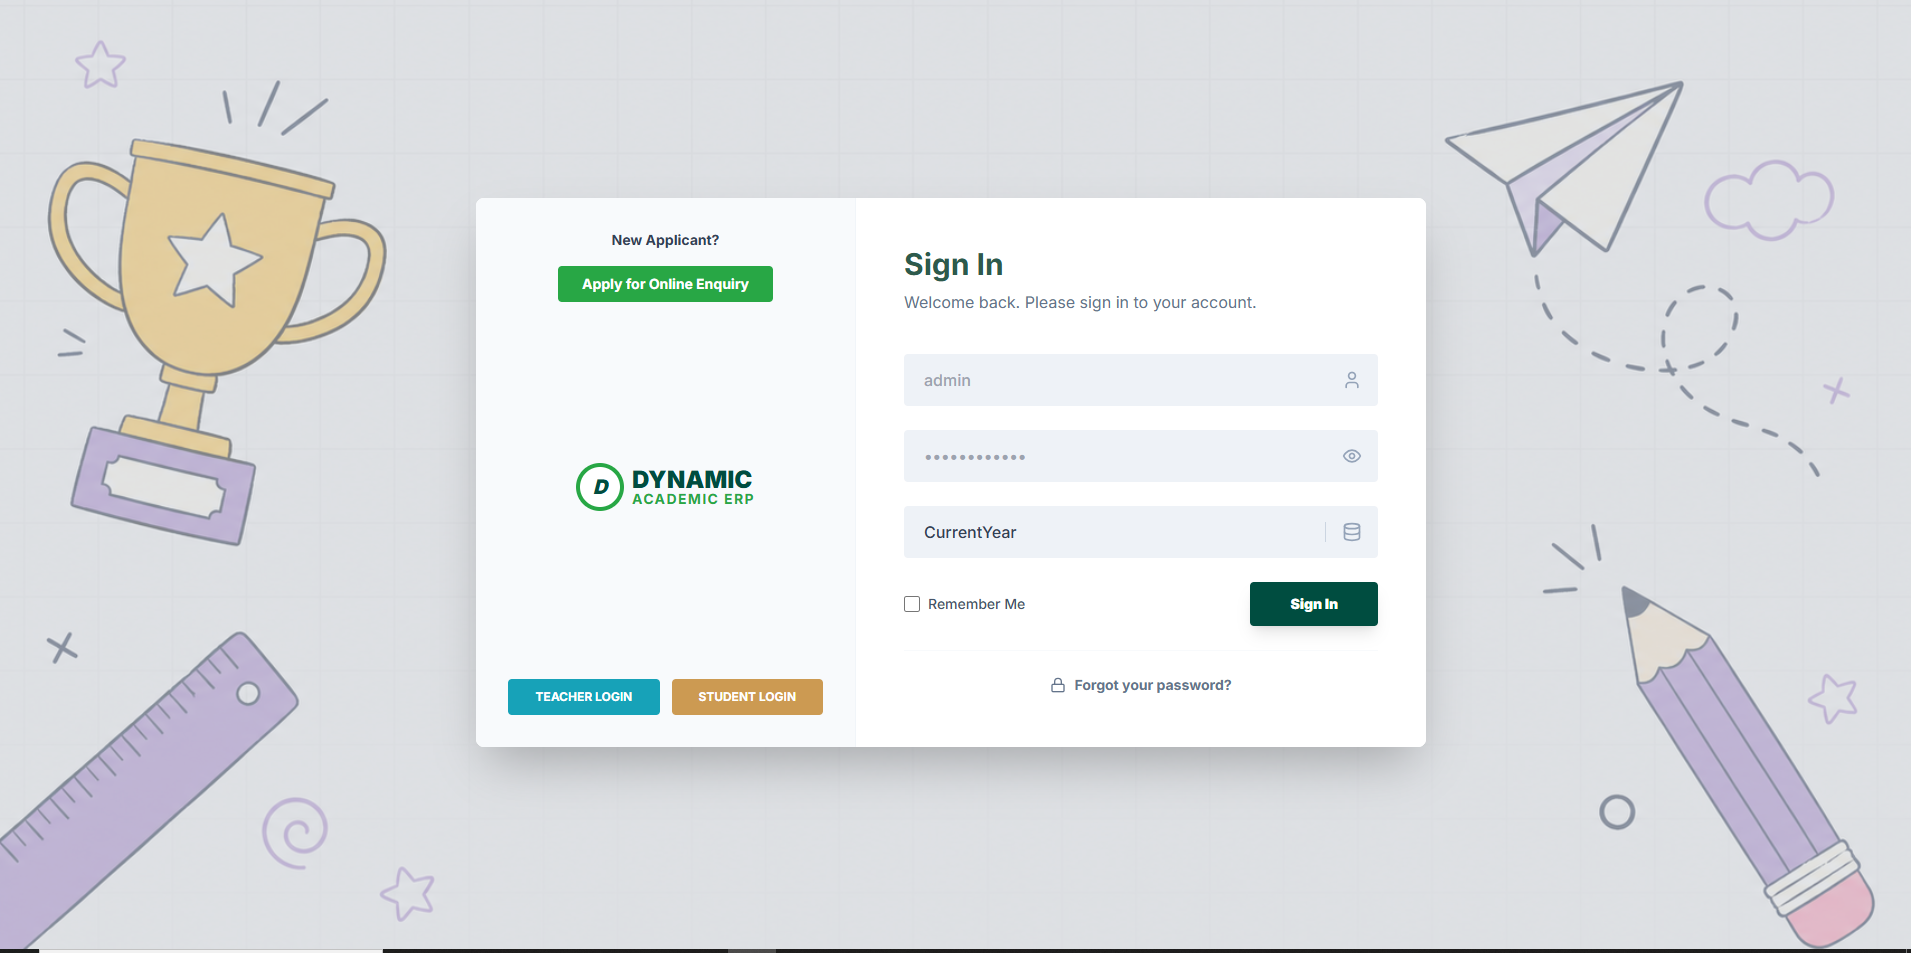
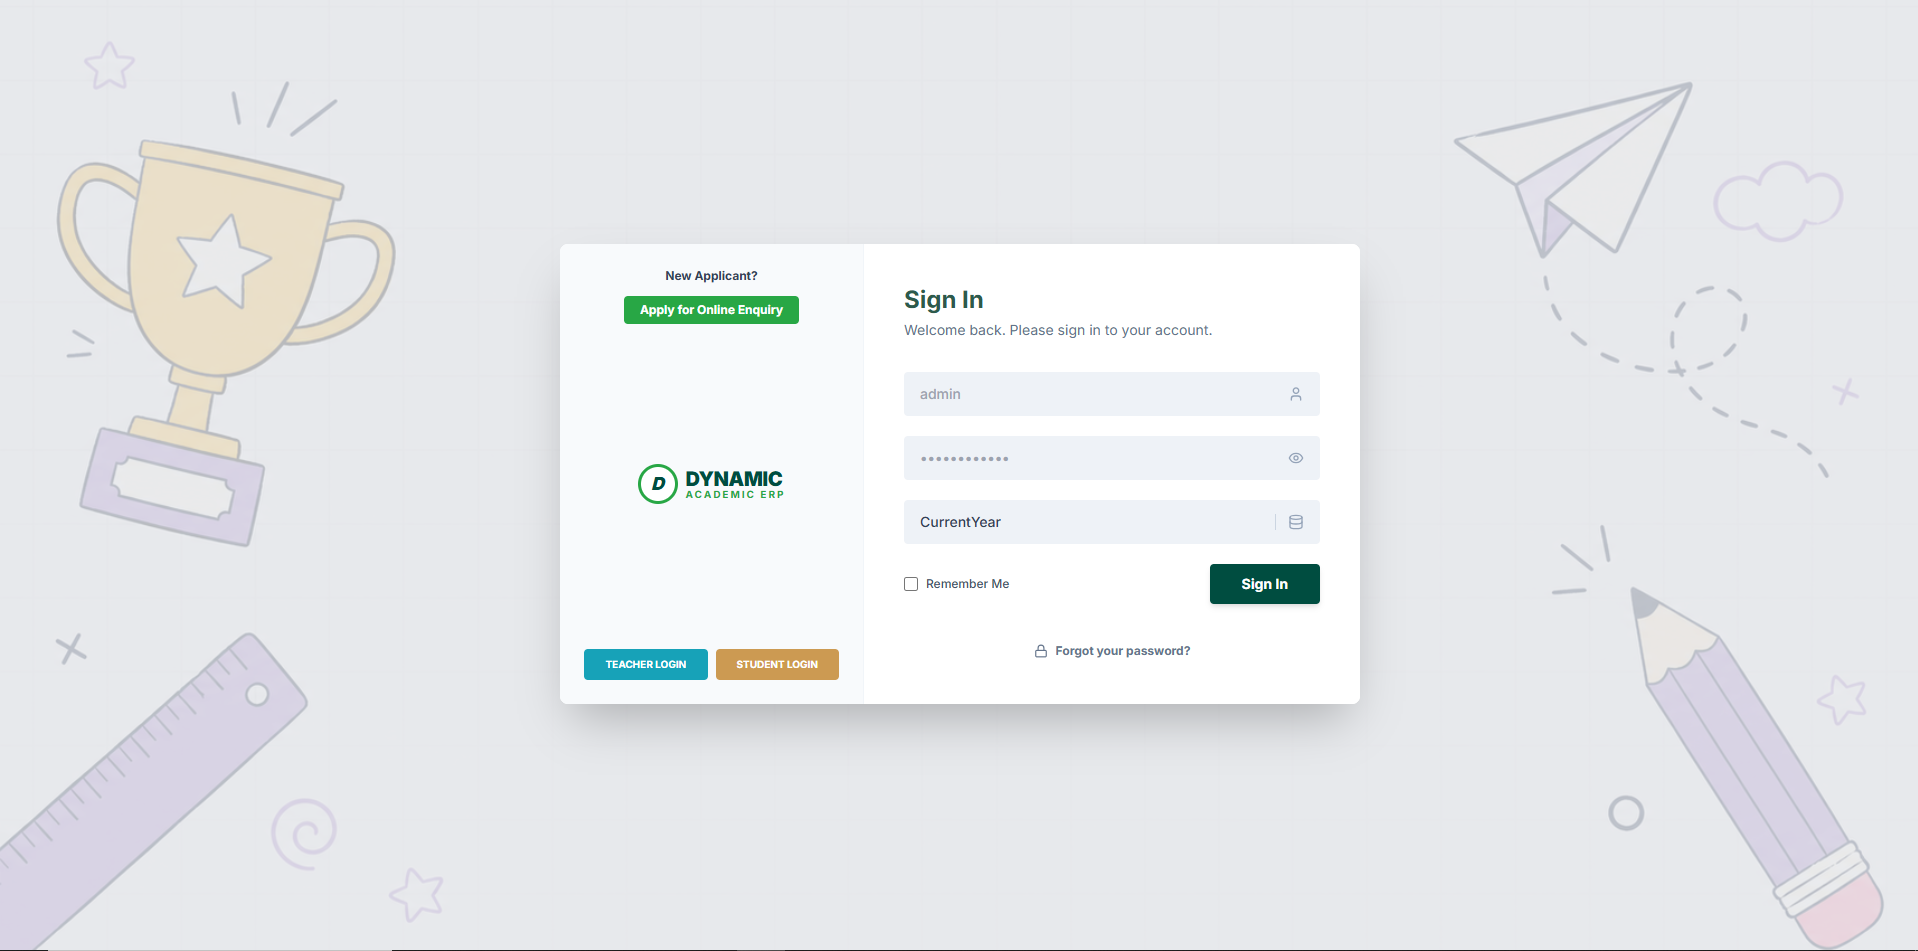
UI Final Sync: Login and Register pages now use unified Green/Teal branding and matched layout

diff --git a/app/register/page.tsx b/app/register/page.tsx
@@ -1,87 +1,96 @@
 "use client";
 
 import React from 'react';
-import { School, ArrowRight, CheckCircle2, ShieldCheck } from 'lucide-react';
+import { School, CheckCircle2, ShieldCheck, ArrowRight } from 'lucide-react';
 import Link from 'next/link';
 
 export default function RegisterSchoolPage() {
   return (
-    <div className="min-h-screen bg-slate-50 flex items-center justify-center p-6">
-      <div className="w-full max-w-2xl bg-white rounded-[32px] border border-slate-100 shadow-2xl overflow-hidden flex flex-col md:flex-row">
-        {/* Left Side - Info */}
-        <div className="w-full md:w-[40%] bg-indigo-600 p-8 text-white flex flex-col justify-between">
-          <div>
-            <div className="bg-white/20 w-12 h-12 rounded-xl flex items-center justify-center mb-6">
-              <School className="w-7 h-7 text-white" />
-            </div>
-            <h2 className="text-2xl font-bold leading-tight mb-4">Onboard your Institution</h2>
-            <p className="text-indigo-100 text-sm leading-relaxed mb-8">
-              Join hundreds of schools managing their operations with EduPulse. 
-            </p>
-            
-            <div className="space-y-4">
-              {[
-                "Strict Data Isolation",
-                "Custom Subdomains",
-                "Global Analytics"
-              ].map((text) => (
-                <div key={text} className="flex items-center gap-3">
-                  <CheckCircle2 className="w-5 h-5 text-indigo-300 shrink-0" />
-                  <span className="text-xs font-medium text-indigo-50">{text}</span>
-                </div>
-              ))}
+    <div className="min-h-screen bg-[#e5e7eb] flex items-center justify-center p-6 relative overflow-hidden">
+      {/* Background Image Overlay */}
+      <div 
+        className="absolute inset-0 z-0 opacity-20"
+        style={{ 
+          backgroundImage: "url('/login-bg.png')",
+          backgroundSize: 'cover',
+          backgroundPosition: 'center'
+        }}
+      />
+
+      <div className="relative z-10 w-full max-w-[850px] bg-white rounded-lg shadow-2xl overflow-hidden flex flex-col md:flex-row min-h-[500px]">
+        {/* Left Section - Unified Dynamic Theme */}
+        <div className="w-full md:w-[40%] bg-slate-50 p-8 flex flex-col items-center justify-between border-r border-slate-100 text-center">
+          <div className="space-y-4">
+            <p className="text-sm font-bold text-slate-700 uppercase tracking-wider">Institution Setup</p>
+            <div className="bg-[#28a745] text-white px-6 py-2 rounded font-black text-xs uppercase tracking-widest inline-block">
+              School Registration
             </div>
           </div>
 
-          <div className="mt-8 p-4 bg-white/10 rounded-2xl border border-white/10">
-            <div className="flex items-center gap-3">
-              <ShieldCheck className="w-5 h-5 text-indigo-300" />
-              <p className="text-[10px] font-bold uppercase tracking-widest text-indigo-200">Super Admin Approval Required</p>
+          <div className="flex flex-col items-center py-6">
+            <div className="flex items-center gap-2 mb-1">
+              <div className="w-12 h-12 bg-white rounded-full border-4 border-[#28a745] flex items-center justify-center shrink-0">
+                <span className="text-[#004d40] font-black text-xl italic">D</span>
+              </div>
+              <div className="text-left">
+                <h2 className="text-[#004d40] font-black text-2xl leading-none">DYNAMIC</h2>
+                <p className="text-[#28a745] font-bold text-xs tracking-widest leading-none">ACADEMIC ERP</p>
+              </div>
             </div>
+          </div>
+
+          <div className="w-full space-y-3 text-left px-4">
+            {[
+              "Multi-tenant isolation",
+              "Custom school subdomain",
+              "Academic management suite"
+            ].map((text) => (
+              <div key={text} className="flex items-center gap-2">
+                <CheckCircle2 className="w-4 h-4 text-[#28a745]" />
+                <span className="text-[11px] font-bold text-slate-500 uppercase">{text}</span>
+              </div>
+            ))}
+          </div>
+
+          <div className="w-full pt-8 flex gap-2">
+            <div className="flex-1 h-1.5 bg-[#17a2b8] rounded-full opacity-30"></div>
+            <div className="flex-1 h-1.5 bg-[#cc9a52] rounded-full opacity-30"></div>
           </div>
         </div>
 
-        {/* Right Side - Form */}
-        <div className="w-full md:w-[60%] p-10">
-          <div className="mb-8">
-            <h1 className="text-2xl font-bold text-slate-900">Request Account</h1>
-            <p className="text-slate-500 text-sm mt-1">Our team will verify your school details shortly.</p>
+        {/* Right Section - Form */}
+        <div className="w-full md:w-[60%] p-12 bg-white flex flex-col justify-center">
+          <div className="mb-10">
+            <h1 className="text-3xl font-bold text-[#2d5a4c]">Register School</h1>
+            <p className="text-slate-500 mt-2 text-sm font-medium">Create your institutional account to get started.</p>
           </div>
 
-          <form className="space-y-4" onSubmit={(e) => e.preventDefault()}>
+          <form className="space-y-5" onSubmit={(e) => e.preventDefault()}>
             <div className="space-y-1.5">
-              <label className="text-[10px] font-black text-slate-400 uppercase tracking-widest ml-1">School Name</label>
-              <input type="text" placeholder="Greenwood International" className="w-full px-4 py-3 border border-slate-100 rounded-2xl bg-slate-50 focus:ring-2 focus:ring-indigo-500 outline-none text-sm font-semibold" />
+              <input type="text" placeholder="School Name" className="w-full px-5 py-3.5 bg-[#eef2f7] border-none rounded text-sm focus:ring-2 focus:ring-[#2d5a4c] outline-none text-slate-700 font-medium" />
             </div>
 
-            <div className="space-y-1.5">
-              <label className="text-[10px] font-black text-slate-400 uppercase tracking-widest ml-1">Preferred Subdomain</label>
-              <div className="flex items-center">
-                <input type="text" placeholder="greenwood" className="flex-1 px-4 py-3 border border-slate-100 rounded-l-2xl bg-slate-50 focus:ring-2 focus:ring-indigo-500 outline-none text-sm font-semibold" />
-                <span className="bg-slate-100 border border-l-0 border-slate-100 px-4 py-3 rounded-r-2xl text-xs font-bold text-slate-500">.edupulse.com</span>
-              </div>
+            <div className="flex items-center gap-3">
+              <input type="text" placeholder="Subdomain" className="flex-1 px-5 py-3.5 bg-[#eef2f7] border-none rounded text-sm focus:ring-2 focus:ring-[#2d5a4c] outline-none text-slate-700 font-medium" />
+              <span className="text-xs font-bold text-slate-400">.edupulse.com</span>
             </div>
 
             <div className="grid grid-cols-2 gap-4">
-              <div className="space-y-1.5">
-                <label className="text-[10px] font-black text-slate-400 uppercase tracking-widest ml-1">Contact Email</label>
-                <input type="email" placeholder="admin@school.edu" className="w-full px-4 py-3 border border-slate-100 rounded-2xl bg-slate-50 focus:ring-2 focus:ring-indigo-500 outline-none text-sm font-semibold" />
-              </div>
-              <div className="space-y-1.5">
-                <label className="text-[10px] font-black text-slate-400 uppercase tracking-widest ml-1">Phone Number</label>
-                <input type="tel" placeholder="+1..." className="w-full px-4 py-3 border border-slate-100 rounded-2xl bg-slate-50 focus:ring-2 focus:ring-indigo-500 outline-none text-sm font-semibold" />
-              </div>
+              <input type="email" placeholder="Contact Email" className="px-5 py-3.5 bg-[#eef2f7] border-none rounded text-sm focus:ring-2 focus:ring-[#2d5a4c] outline-none text-slate-700 font-medium" />
+              <input type="tel" placeholder="Phone Number" className="px-5 py-3.5 bg-[#eef2f7] border-none rounded text-sm focus:ring-2 focus:ring-[#2d5a4c] outline-none text-slate-700 font-medium" />
             </div>
 
-            <button className="w-full mt-6 bg-slate-900 text-white py-4 rounded-2xl font-black text-sm shadow-xl hover:bg-slate-800 transition-all flex items-center justify-center gap-2 group">
+            <button className="w-full bg-[#004d40] hover:bg-[#00332c] text-white py-4 rounded font-black text-sm transition-all shadow-lg flex items-center justify-center gap-2 group mt-4">
               Submit Request
               <ArrowRight className="w-4 h-4 group-hover:translate-x-1 transition-transform" />
             </button>
-          </form>
 
-          <p className="mt-8 text-center text-xs text-slate-400 font-medium">
-            Already have an account? <Link href="/login" className="text-indigo-600 font-black hover:underline tracking-tight">Login here</Link>
-          </p>
+            <div className="pt-6 text-center">
+              <p className="text-xs text-slate-400 font-medium">
+                Already have an account? <Link href="/login" className="text-[#004d40] font-black hover:underline tracking-tight">Sign In here</Link>
+              </p>
+            </div>
+          </form>
         </div>
       </div>
     </div>

diff --git a/app/login/page.tsx b/app/login/page.tsx
@@ -12,7 +12,7 @@ import Link from 'next/link';
 export default function LoginPage() {
   return (
     <div className="min-h-screen w-full flex items-center justify-center p-4 relative overflow-hidden bg-[#e5e7eb]">
-      {/* Background Image Overlay - matching the image's playful grid pattern */}
+      {/* Background Image Overlay */}
       <div 
         className="absolute inset-0 z-0 opacity-20"
         style={{ 
@@ -22,57 +22,57 @@ export default function LoginPage() {
         }}
       />
       
-      {/* Main Card - Smaller size as requested */}
-      <div className="relative z-10 w-full max-w-[800px] bg-white rounded-lg shadow-2xl overflow-hidden flex flex-col md:flex-row min-h-[450px]">
+      {/* Main Card - Perfectly aligned with Register Page size & structure */}
+      <div className="relative z-10 w-full max-w-[850px] bg-white rounded-lg shadow-2xl overflow-hidden flex flex-col md:flex-row min-h-[500px]">
         
         {/* Left Section - Sidebar Info */}
-        <div className="w-full md:w-[38%] bg-slate-50 p-6 flex flex-col items-center justify-between border-r border-slate-100">
-          <div className="text-center space-y-3">
-            <p className="text-xs font-bold text-slate-700">New Applicant?</p>
-            <button className="bg-[#28a745] hover:bg-[#218838] text-white px-4 py-1.5 rounded font-bold text-xs transition-colors">
+        <div className="w-full md:w-[40%] bg-slate-50 p-8 flex flex-col items-center justify-between border-r border-slate-100">
+          <div className="text-center space-y-4">
+            <p className="text-sm font-bold text-slate-700 uppercase tracking-wider">New Applicant?</p>
+            <button className="bg-[#28a745] hover:bg-[#218838] text-white px-6 py-2 rounded font-black text-xs uppercase tracking-widest transition-colors inline-block shadow-sm">
               Apply for Online Enquiry
             </button>
           </div>
 
           <div className="flex flex-col items-center py-6">
             <div className="flex items-center gap-2 mb-1">
-              <div className="w-10 h-10 bg-white rounded-full border-[3px] border-[#28a745] flex items-center justify-center shrink-0">
-                <span className="text-[#004d40] font-black text-lg italic">D</span>
+              <div className="w-12 h-12 bg-white rounded-full border-4 border-[#28a745] flex items-center justify-center shrink-0">
+                <span className="text-[#004d40] font-black text-xl italic">D</span>
               </div>
               <div className="text-left">
-                <h2 className="text-[#004d40] font-black text-xl leading-none tracking-tight">DYNAMIC</h2>
-                <p className="text-[#28a745] font-bold text-[10px] tracking-[0.2em] leading-none">ACADEMIC ERP</p>
+                <h2 className="text-[#004d40] font-black text-2xl leading-none">DYNAMIC</h2>
+                <p className="text-[#28a745] font-bold text-xs tracking-widest leading-none">ACADEMIC ERP</p>
               </div>
             </div>
           </div>
 
-          <div className="w-full flex gap-2">
-            <button className="flex-1 bg-[#17a2b8] hover:bg-[#138496] text-white py-2 rounded font-bold text-[10px] transition-colors uppercase">
+          <div className="w-full flex gap-3">
+            <button className="flex-1 bg-[#17a2b8] hover:bg-[#138496] text-white py-2.5 rounded font-black text-[10px] transition-colors uppercase tracking-widest shadow-sm">
               Teacher Login
             </button>
-            <button className="flex-1 bg-[#cc9a52] hover:bg-[#b88a46] text-white py-2 rounded font-bold text-[10px] transition-colors uppercase">
+            <button className="flex-1 bg-[#cc9a52] hover:bg-[#b88a46] text-white py-2.5 rounded font-black text-[10px] transition-colors uppercase tracking-widest shadow-sm">
               Student Login
             </button>
           </div>
         </div>
 
         {/* Right Section - Form */}
-        <div className="w-full md:w-[62%] p-10 bg-white flex flex-col justify-center">
-          <div className="mb-8">
-            <h1 className="text-2xl font-bold text-[#2d5a4c]">Sign In</h1>
-            <p className="text-slate-500 text-sm mt-1">Welcome back. Please sign in to your account.</p>
+        <div className="w-full md:w-[60%] p-12 bg-white flex flex-col justify-center">
+          <div className="mb-10">
+            <h1 className="text-3xl font-bold text-[#2d5a4c]">Sign In</h1>
+            <p className="text-slate-500 mt-2 text-sm font-medium">Welcome back. Please sign in to your account.</p>
           </div>
 
-          <form className="space-y-5" onSubmit={(e) => e.preventDefault()}>
+          <form className="space-y-6" onSubmit={(e) => e.preventDefault()}>
             {/* Username */}
             <div className="relative">
               <input 
                 type="text" 
                 placeholder="admin"
-                className="w-full px-4 py-3 bg-[#eef2f7] border-none rounded text-sm focus:ring-1 focus:ring-[#2d5a4c] outline-none text-slate-700 font-medium"
+                className="w-full px-5 py-4 bg-[#eef2f7] border-none rounded text-sm focus:ring-2 focus:ring-[#2d5a4c] outline-none text-slate-700 font-medium"
               />
               <div className="absolute right-4 top-1/2 -translate-y-1/2 text-slate-400">
-                <User className="w-4 h-4" />
+                <User className="w-5 h-5" />
               </div>
             </div>
 
@@ -81,40 +81,40 @@ export default function LoginPage() {
               <input 
                 type="password" 
                 placeholder="••••••••••••"
-                className="w-full px-4 py-3 bg-[#eef2f7] border-none rounded text-sm focus:ring-1 focus:ring-[#2d5a4c] outline-none text-slate-700 font-medium"
+                className="w-full px-5 py-4 bg-[#eef2f7] border-none rounded text-sm focus:ring-2 focus:ring-[#2d5a4c] outline-none text-slate-700 font-medium"
               />
               <div className="absolute right-4 top-1/2 -translate-y-1/2 text-slate-400">
-                <Eye className="w-4 h-4" />
+                <Eye className="w-5 h-5" />
               </div>
             </div>
 
             {/* Academic Year */}
             <div className="relative">
-              <select className="w-full px-4 py-3 bg-[#eef2f7] border-none rounded text-sm focus:ring-1 focus:ring-[#2d5a4c] outline-none text-slate-700 font-medium appearance-none">
+              <select className="w-full px-5 py-4 bg-[#eef2f7] border-none rounded text-sm focus:ring-2 focus:ring-[#2d5a4c] outline-none text-slate-700 font-medium appearance-none">
                 <option>CurrentYear</option>
                 <option>2025-2026</option>
                 <option>2024-2025</option>
               </select>
               <div className="absolute right-4 top-1/2 -translate-y-1/2 flex items-center gap-2 pointer-events-none">
-                <div className="h-4 w-[1px] bg-slate-300 mx-1"></div>
-                <Database className="w-4 h-4 text-slate-400" />
+                <div className="h-5 w-[1px] bg-slate-300 mx-2"></div>
+                <Database className="w-5 h-5 text-slate-400" />
               </div>
             </div>
 
             <div className="flex items-center justify-between">
               <label className="flex items-center gap-2 cursor-pointer group">
-                <input type="checkbox" className="w-3.5 h-3.5 rounded border-slate-300 text-[#004d40] focus:ring-[#004d40]" />
-                <span className="text-xs font-medium text-slate-600 group-hover:text-slate-900 transition-colors">Remember Me</span>
+                <input type="checkbox" className="w-4 h-4 rounded border-slate-300 text-[#004d40] focus:ring-[#004d40]" />
+                <span className="text-xs font-bold text-slate-600 group-hover:text-slate-900 transition-colors">Remember Me</span>
               </label>
               
-              <button className="bg-[#004d40] hover:bg-[#00332c] text-white px-8 py-2.5 rounded font-bold text-sm transition-all shadow-md">
+              <button className="bg-[#004d40] hover:bg-[#00332c] text-white px-10 py-3 rounded font-black text-sm transition-all shadow-lg">
                 Sign In
               </button>
             </div>
 
-            <div className="pt-4 text-center">
+            <div className="pt-6 text-center">
               <Link href="#" className="inline-flex items-center gap-2 text-xs font-bold text-slate-500 hover:text-[#004d40] transition-colors">
-                <Lock className="w-3.5 h-3.5" />
+                <Lock className="w-4 h-4" />
                 Forgot your password?
               </Link>
             </div>
